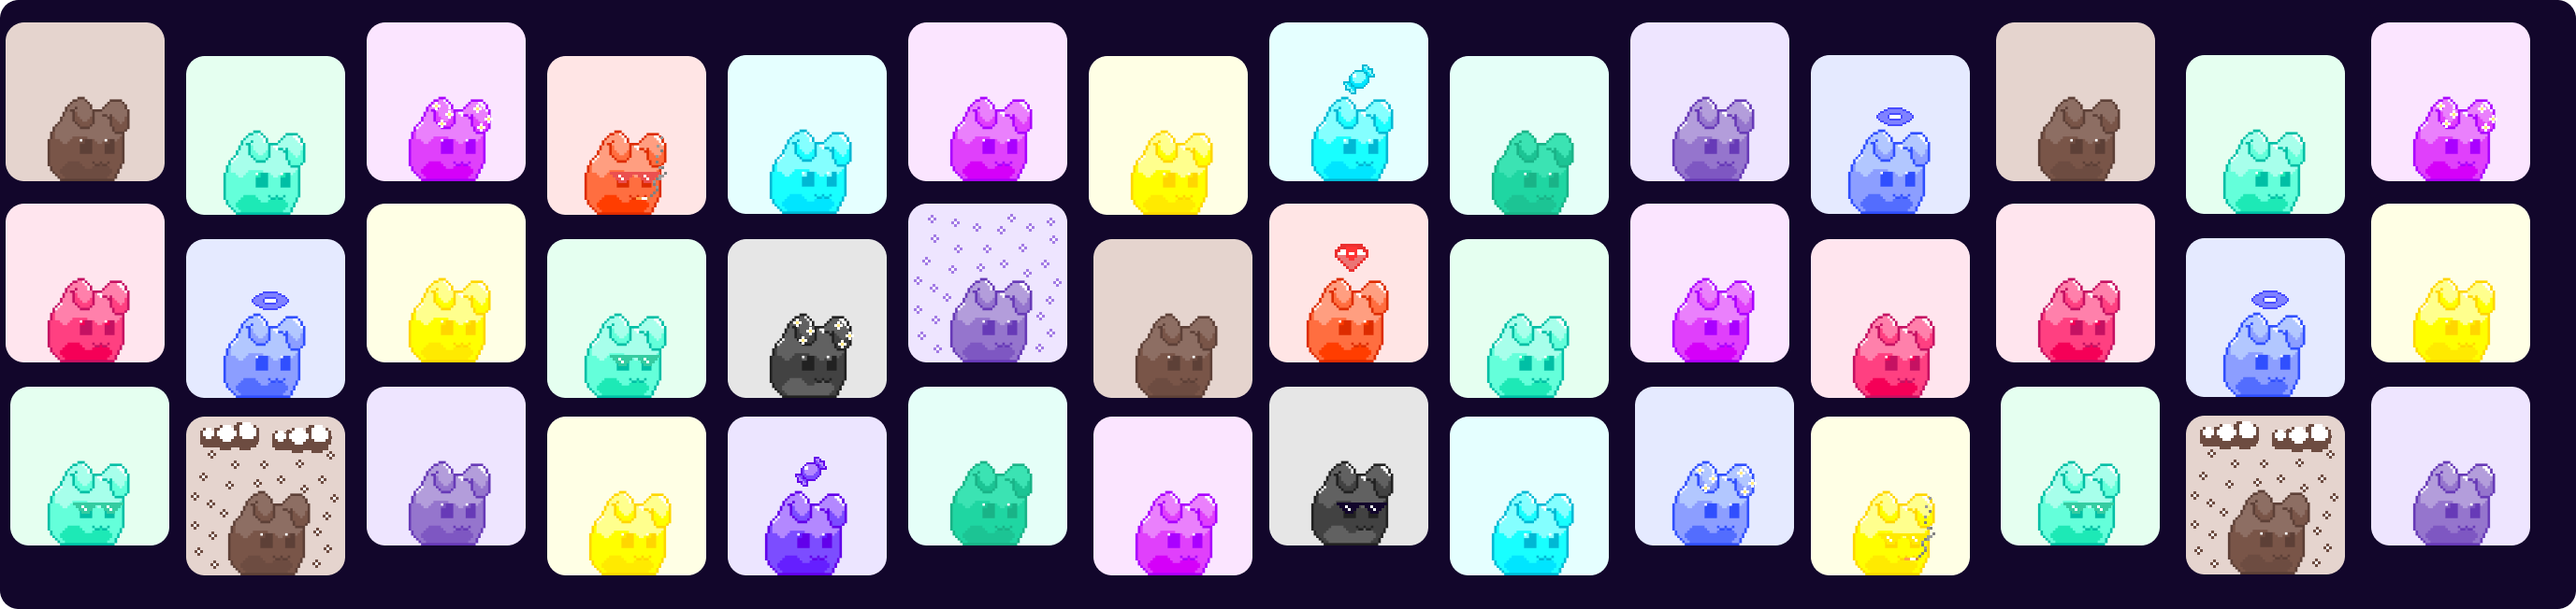
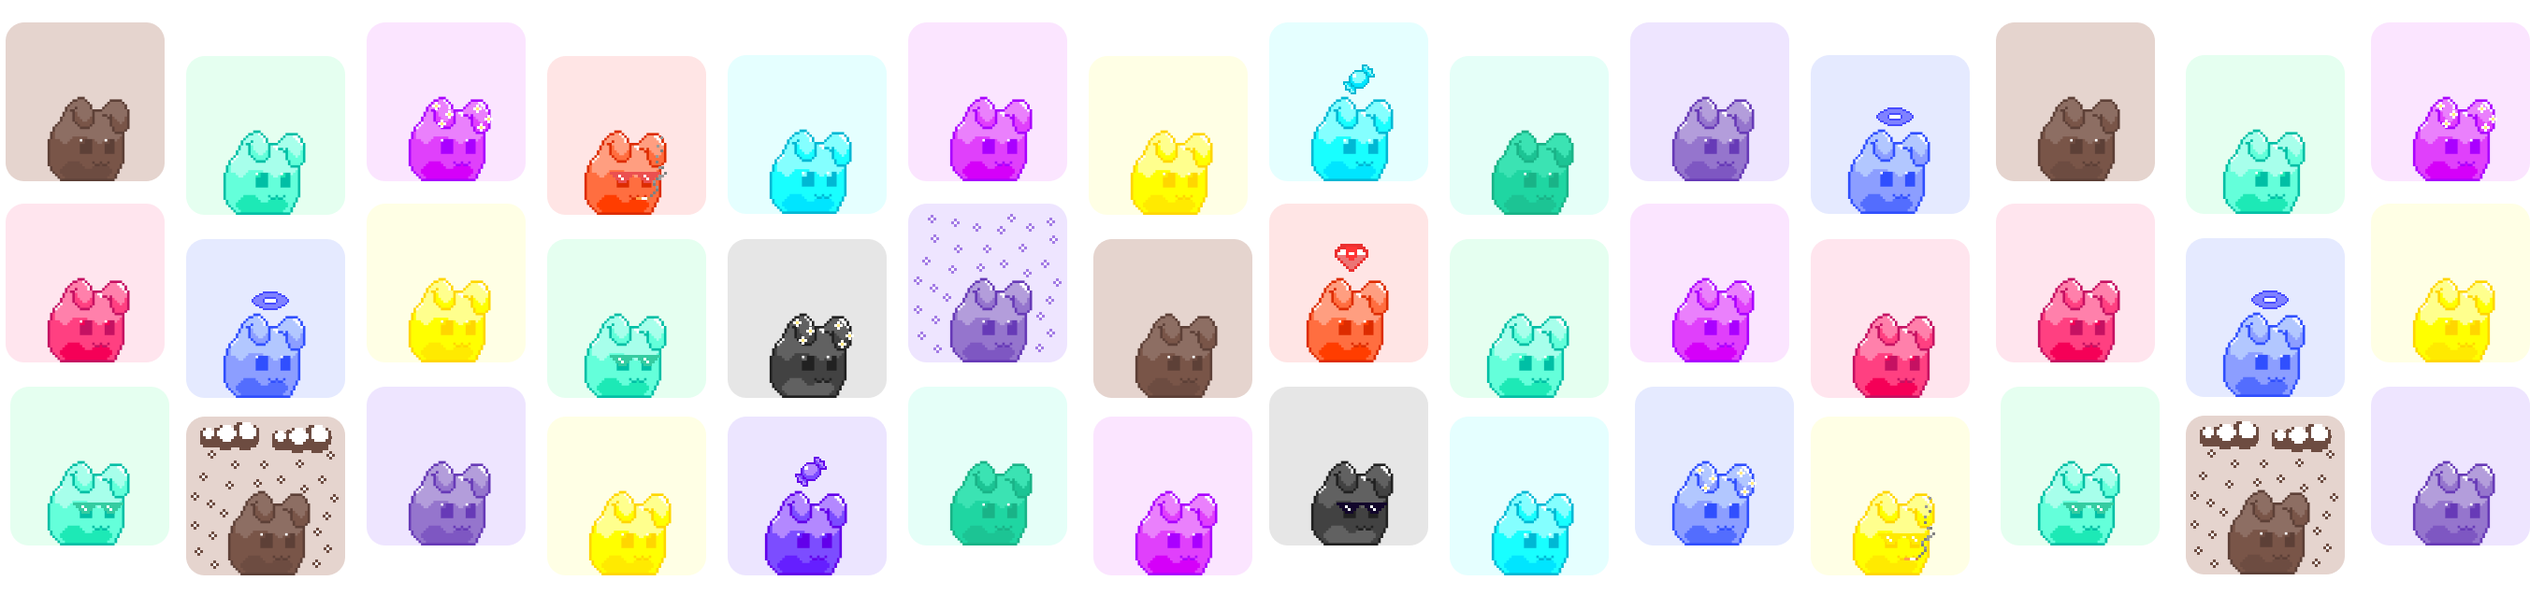
better xl screens handle

diff --git a/src/App.less b/src/App.less
@@ -19,11 +19,13 @@ body {
 
   .img-sliding{
     background: url('./assets/images/sliding_banner.png') repeat-x;
-    -webkit-animation: slide 60s linear infinite;
-    animation: slide 60s linear infinite;
     height: 652px;
-    width: 2754px;
-
+    width: 2705px;
+    margin: 0 auto;
+    @media (max-width: 1800px) {
+      -webkit-animation: slide 60s linear infinite;
+      animation: slide 60s linear infinite;
+      }
     @media (max-width: 640px) {
       background: url('./assets/images/sliding_banner_mobile.png') repeat-x;
       -webkit-animation: slideMobile 60s linear infinite;
@@ -31,6 +33,8 @@ body {
       height: 326px;
       width: 1378px;
       }
+
+      
   }
 
   @keyframes slide{
@@ -38,7 +42,7 @@ body {
       transform: translate3d(0, 0, 0);
     }
     100%{
-      transform: translate3d(-918px, 0, 0);
+      transform: translate3d(-901px, 0, 0);
     }
   }
 
